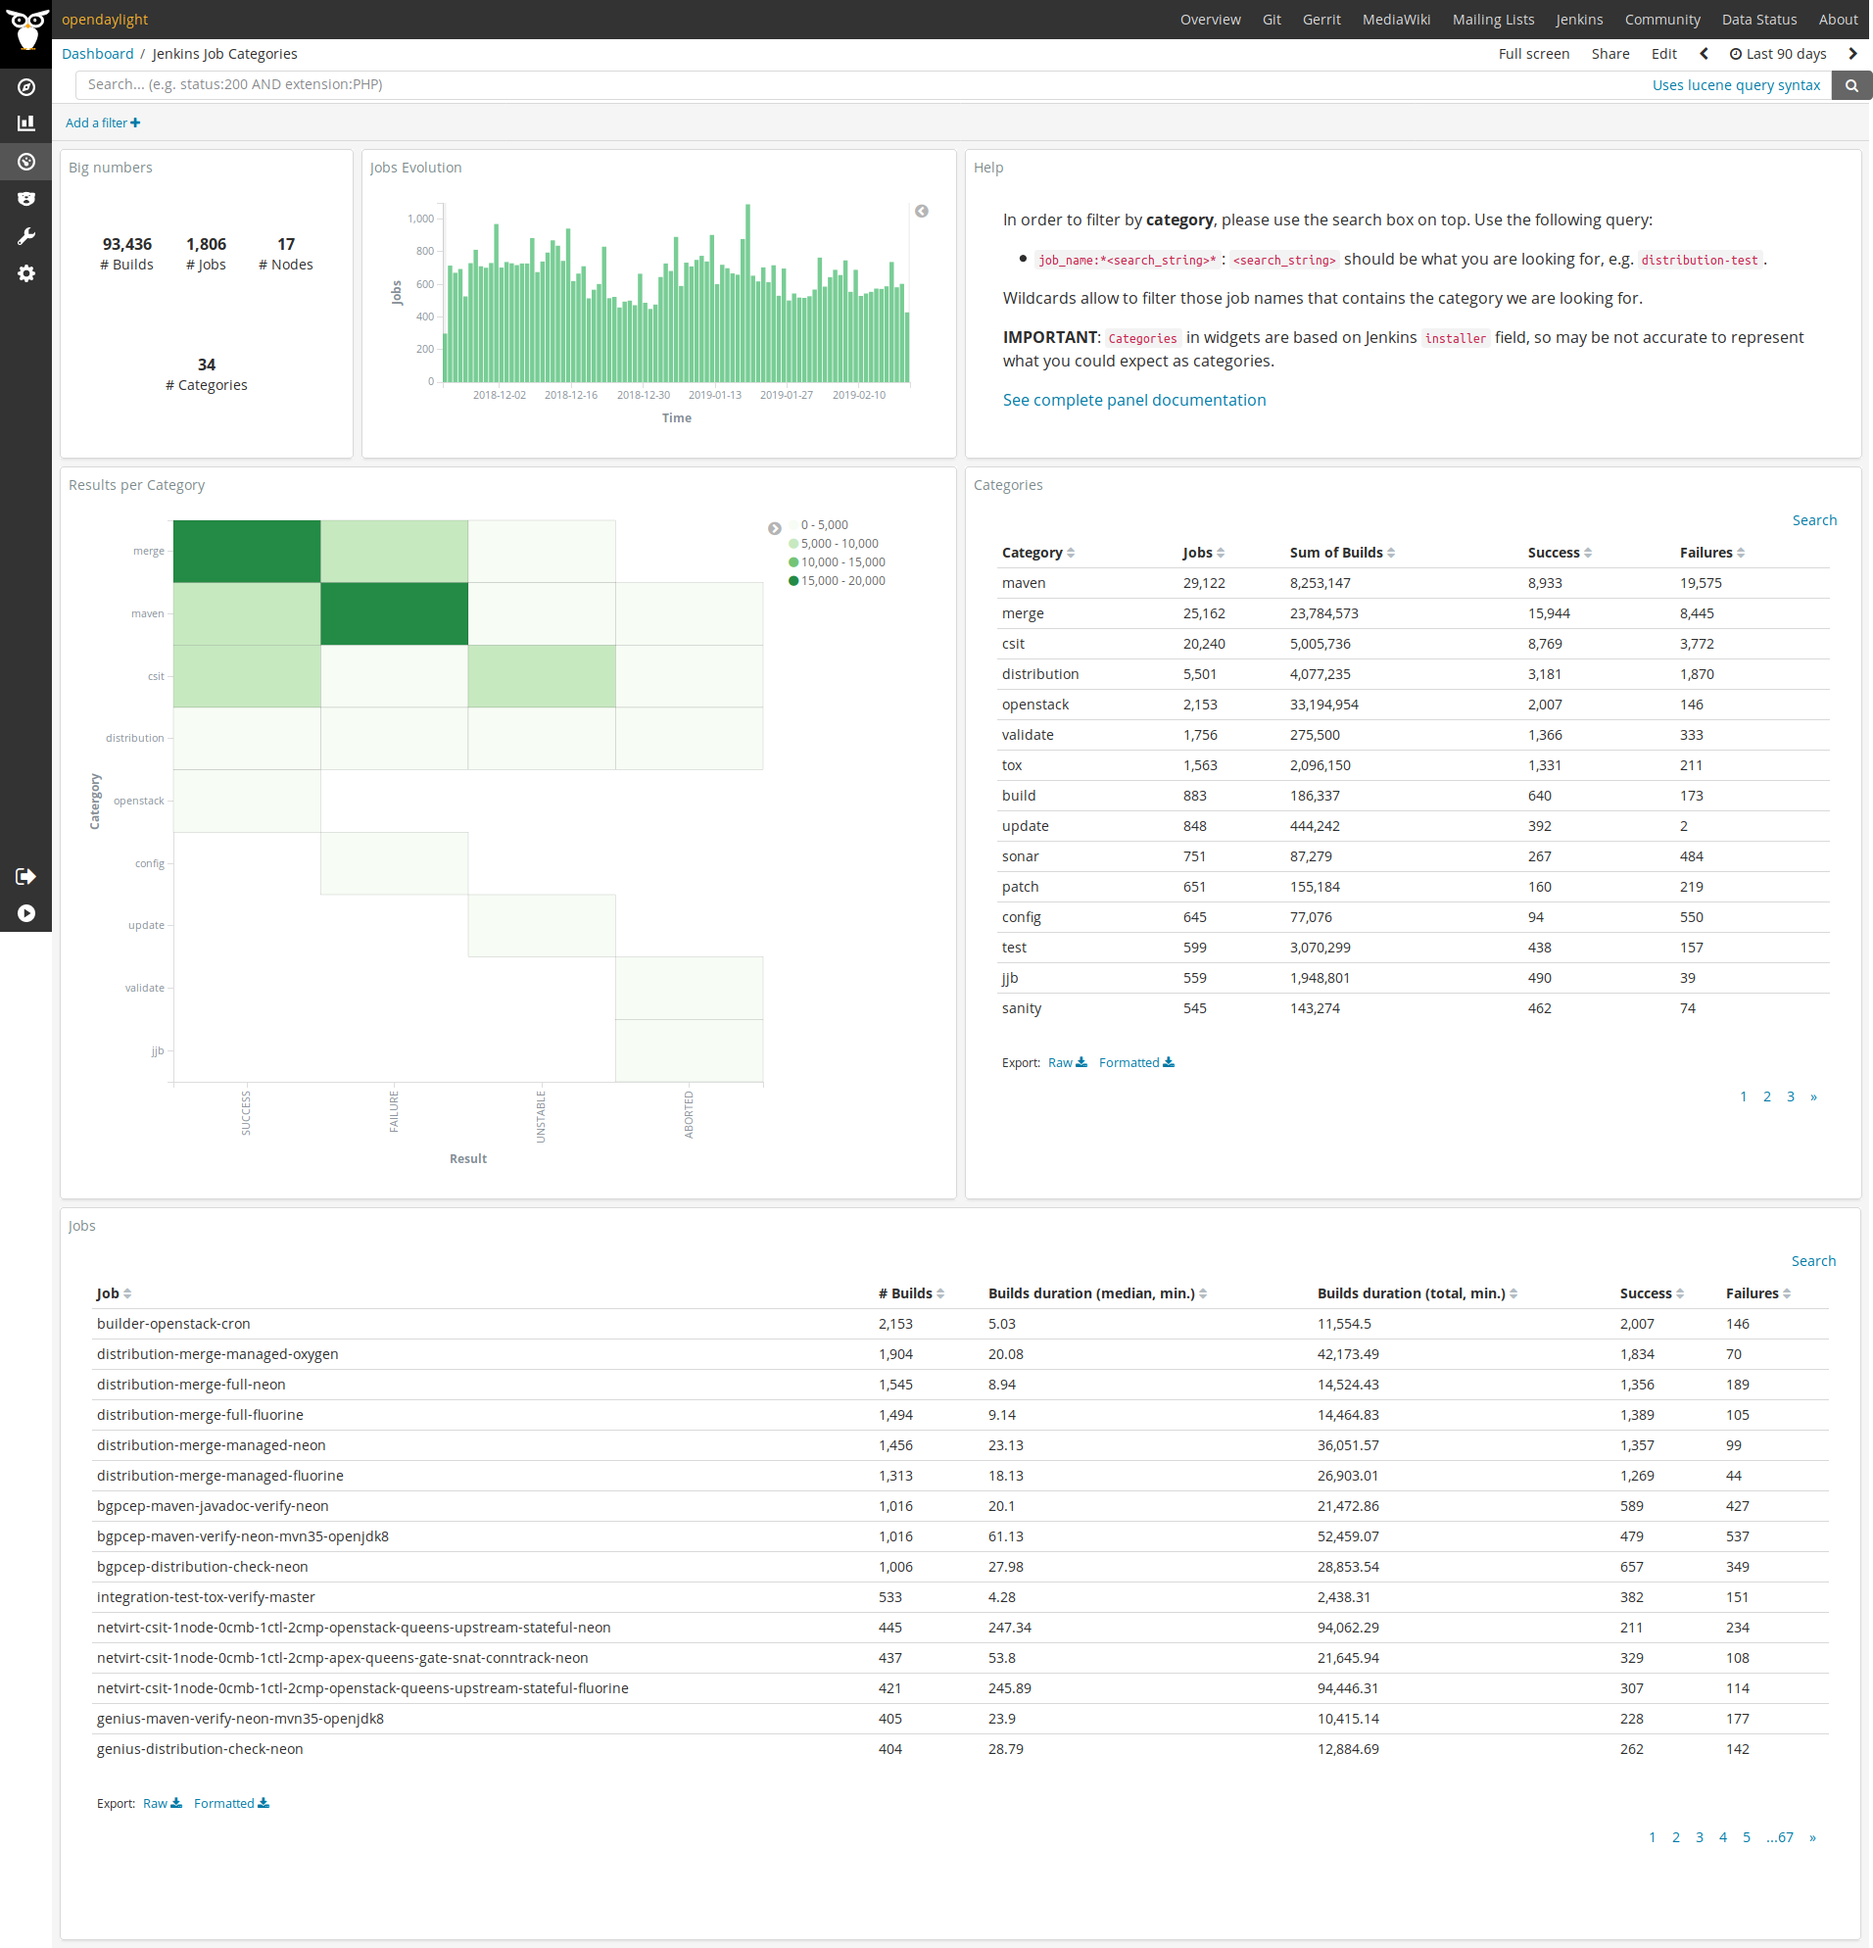
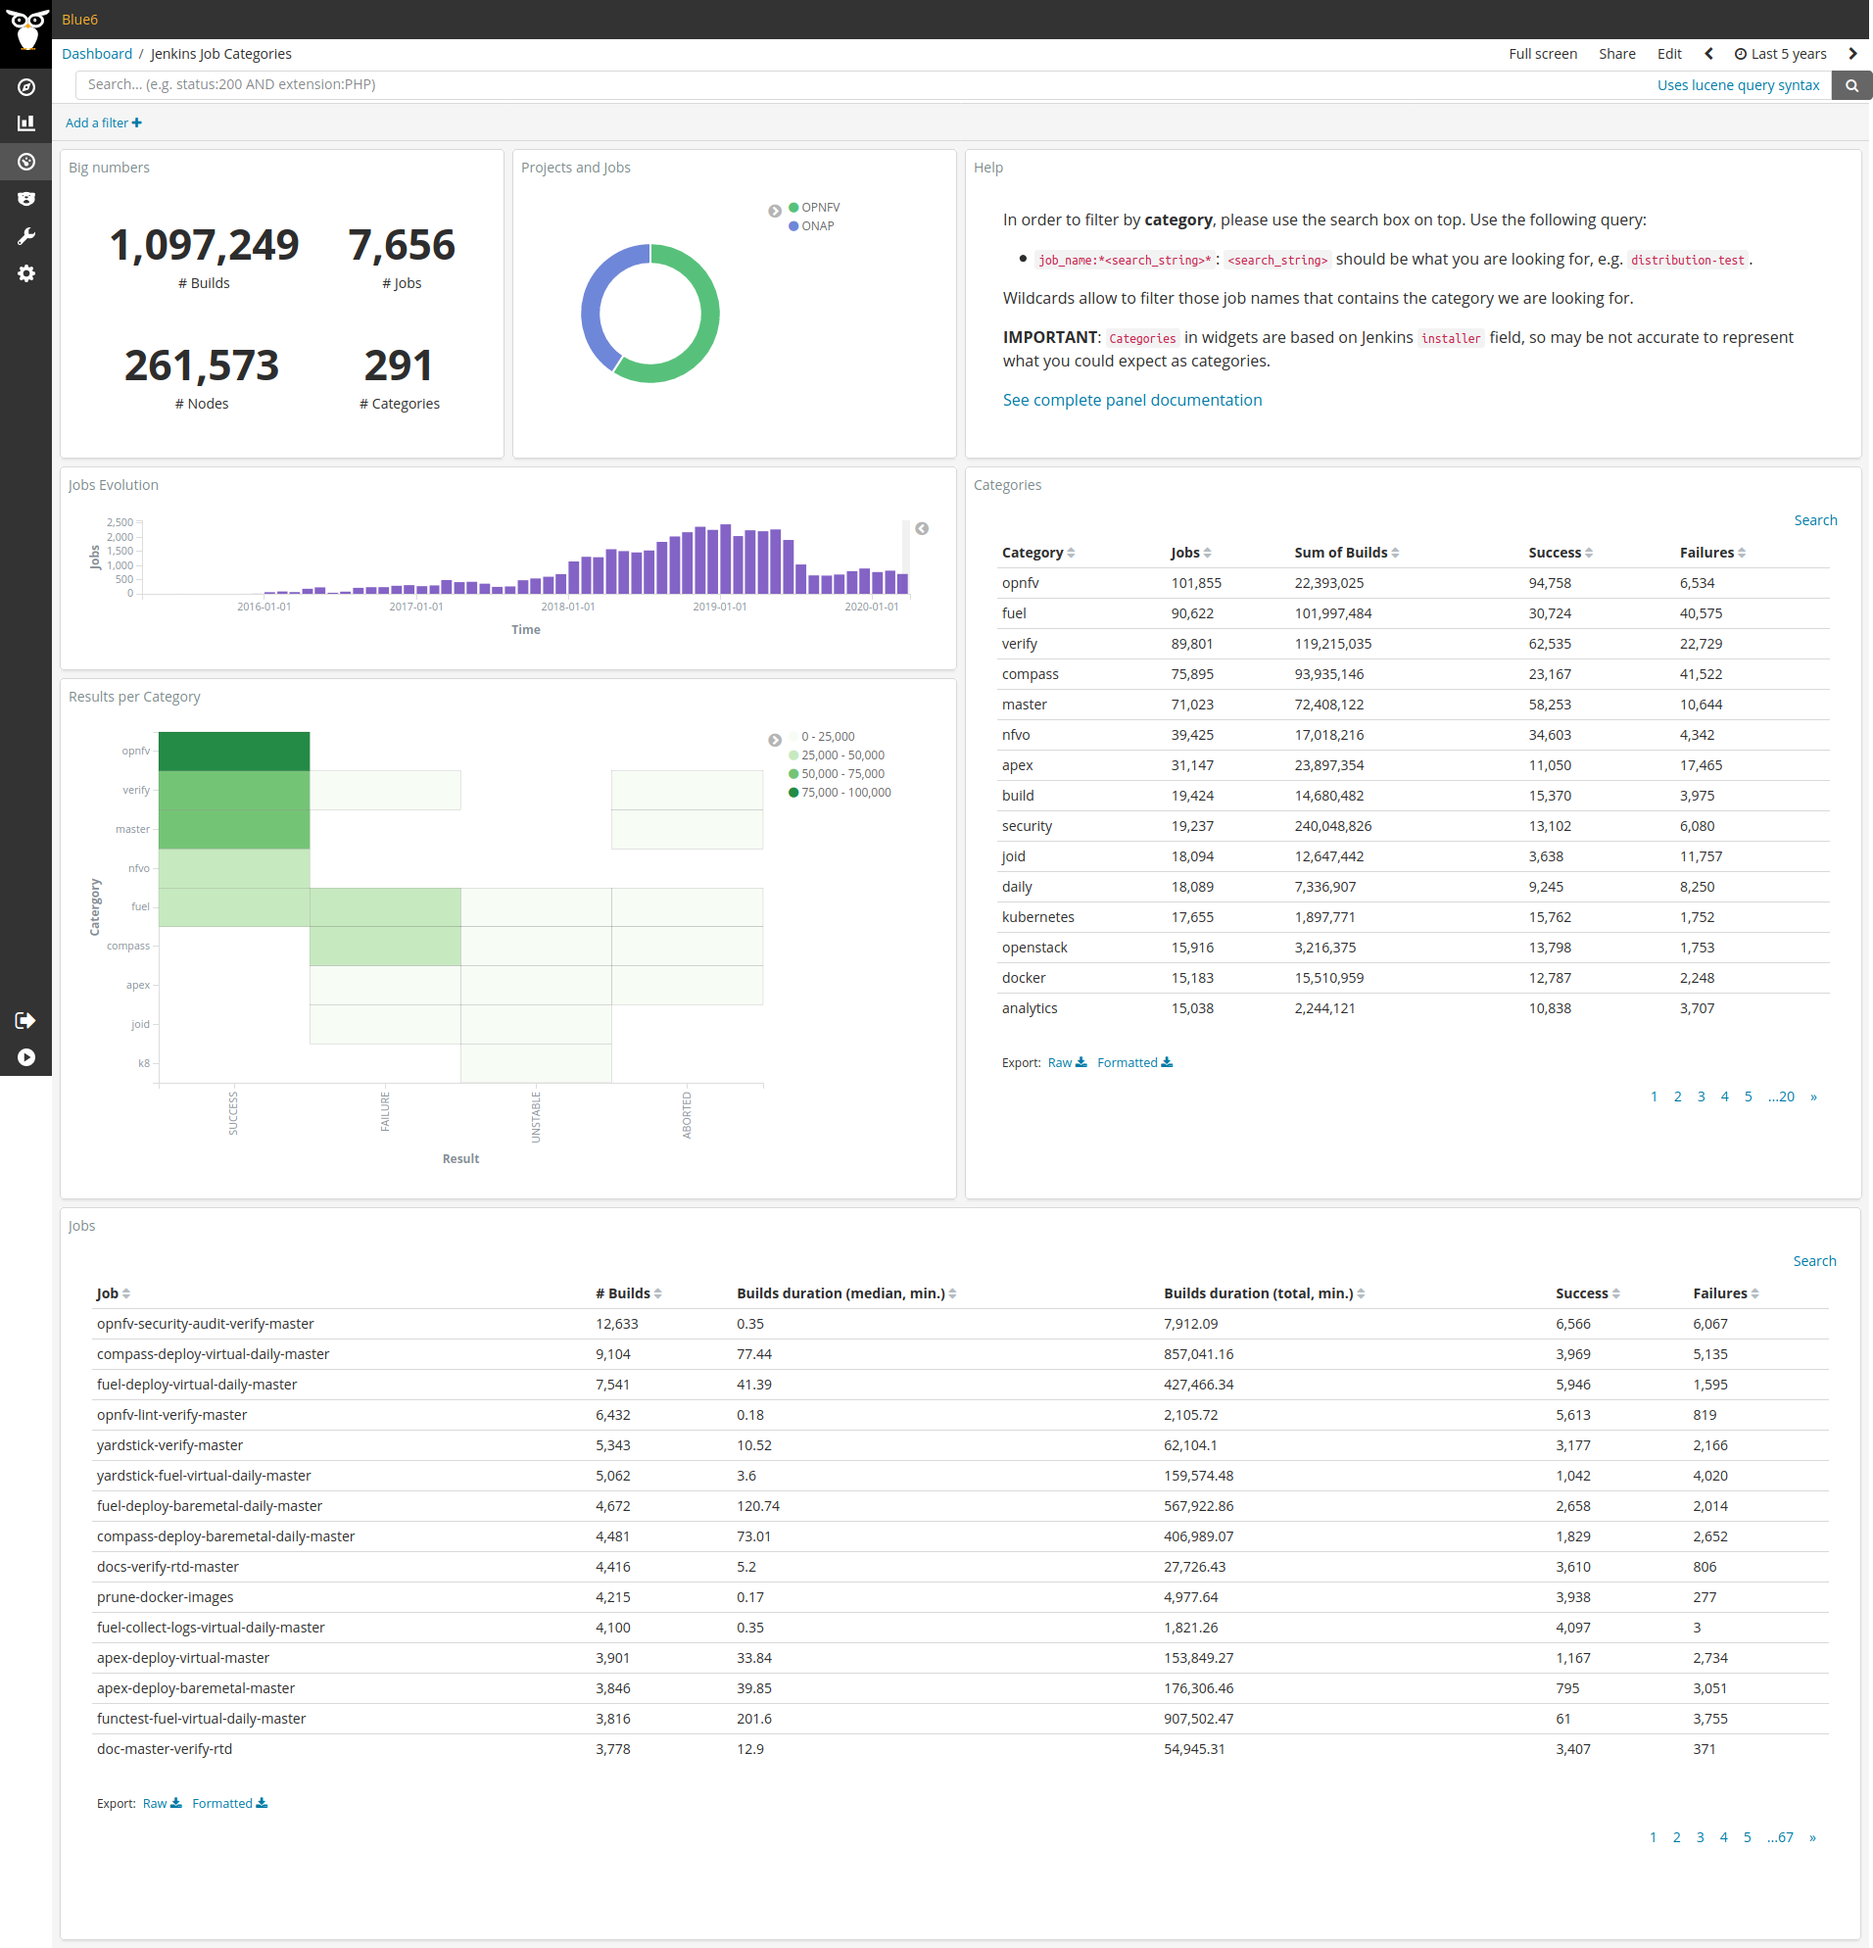
[jenkins-job-categories] Add Jenkins projects pie chart
This code adds a new widget to the jenkins job categories
panel which allows to see how the data is shared between
the different projects.

Documentation has been updated.

diff --git a/docs/_panels/jenkins-job-categories.md b/docs/_panels/jenkins-job-categories.md
@@ -32,7 +32,8 @@ contains the category name we are looking for.
 From left to right and top to bottom, the metrics provided are:
 
 * **Big Numbers**: total numbers about what we are 
-  visualizing in the panel. 
+  visualizing in the panel.
+* **Projects and Jobs**: a pie chart that shows the number of jobs per project.
 * **Jobs Evolution**: number of jobs through time.
 * **Results per Category**: heat map to visually identify categories with 
   more runs and their results.
